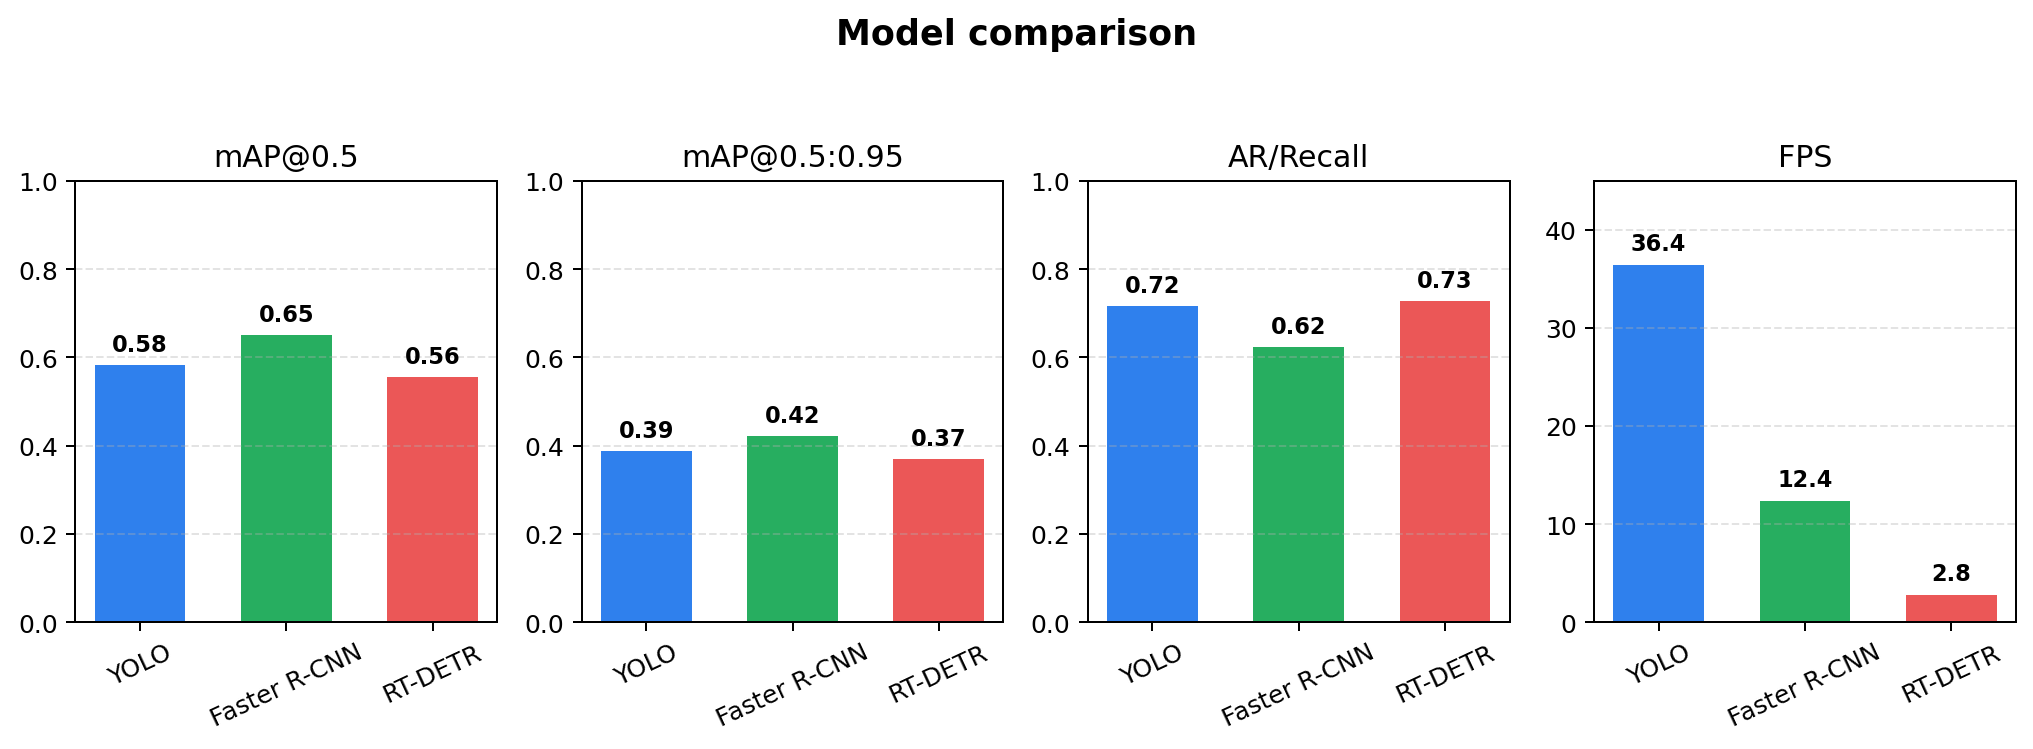
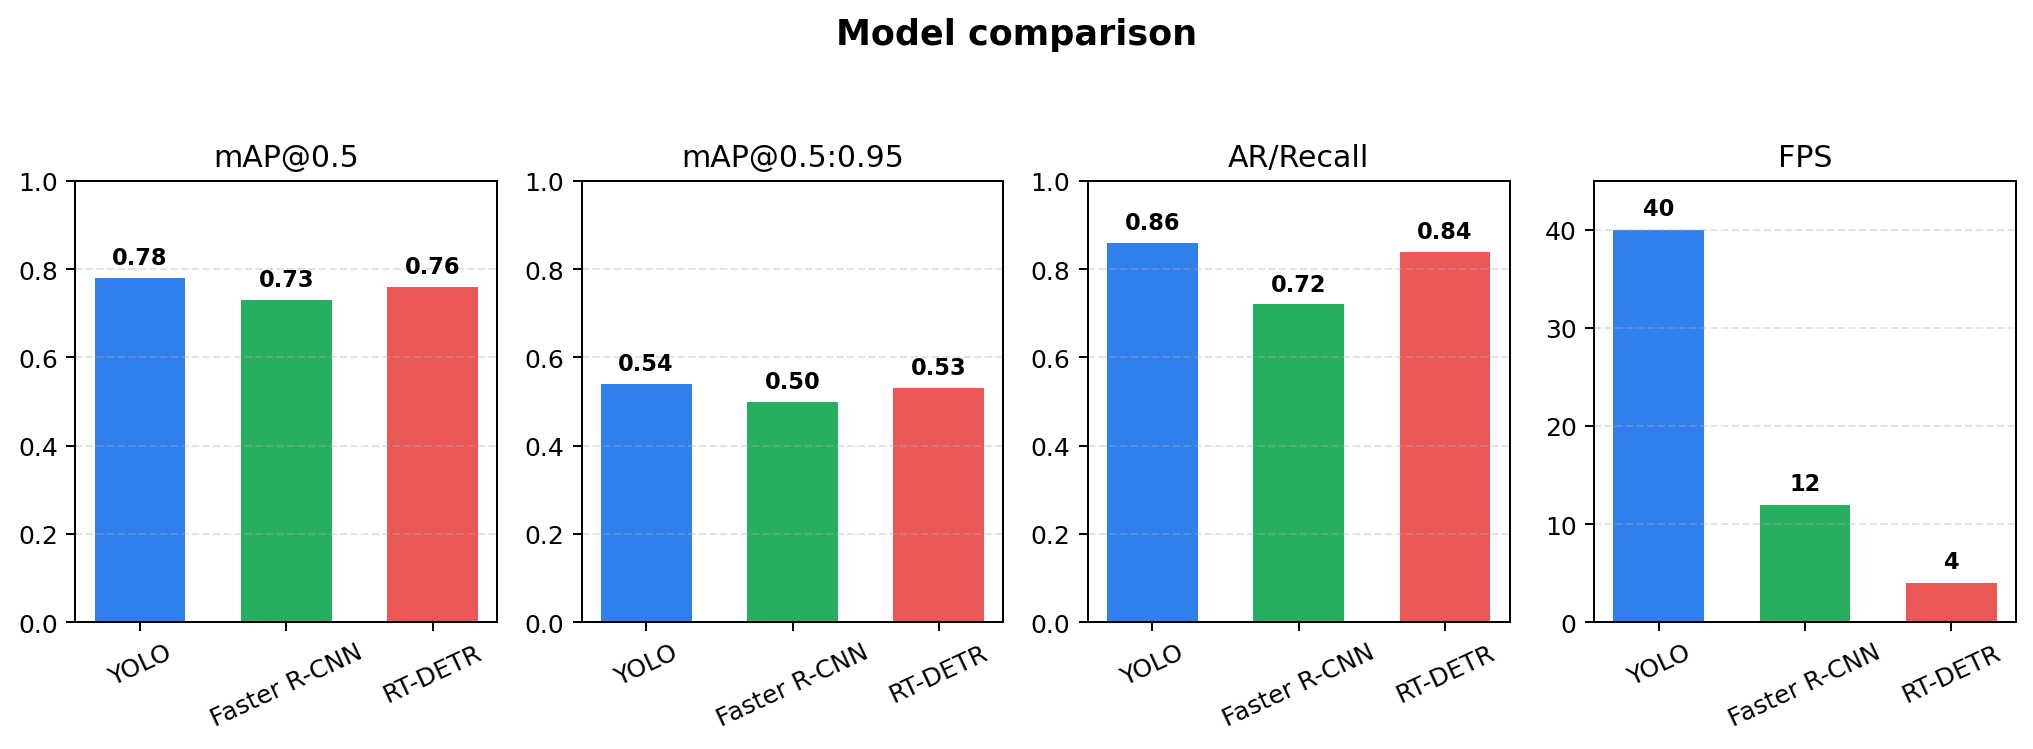
docs: update model comparison metrics and results in report and slides

diff --git a/report/content/04_results.tex b/report/content/04_results.tex
@@ -24,7 +24,7 @@ YOLO được huấn luyện trong 50 epoch. Hình~\ref{fig:yolo-training-result
     \label{fig:yolo-confusion-pr}
 \end{figure}
 
-Trên test set, YOLO đạt mAP@0.5 là 0.582 và mAP@0.5:0.95 là 0.389. Quan trọng hơn, ở lớp \textit{non-helmet} mô hình đạt AP@0.5 là 0.636 với F1 là 0.611 --- cao nhất trong ba mô hình --- nhờ precision 0.613 cân bằng với recall 0.609. Đây cũng là mô hình có tốc độ inference cao nhất, đạt 36.4 FPS, phù hợp với mục tiêu triển khai hệ thống xử lý ảnh/video theo thời gian thực.
+Trên test set, theo bộ chỉ số gộp đã tổng hợp trước đó, YOLO đạt mAP@0.5 là 0.78, mAP@0.5:0.95 là 0.54 và AR/Recall là 0.86. Đây cũng là mô hình có tốc độ inference cao nhất trong ba mô hình, đạt 40 FPS. Ở phân tích theo từng lớp, YOLO vẫn giữ ưu thế vận hành trên lớp \textit{non-helmet} với F1 là 0.611 nhờ precision 0.613 cân bằng với recall 0.609, phù hợp với mục tiêu triển khai hệ thống xử lý ảnh/video theo thời gian thực.
 
 \subsubsection{Faster R-CNN}
 
@@ -44,7 +44,7 @@ Faster R-CNN được huấn luyện trong 50 epoch với backbone ResNet50-FPN.
     \label{fig:faster-confusion}
 \end{figure}
 
-Trên test set, Faster R-CNN đạt mAP@0.5 là 0.650 và mAP@0.5:0.95 là 0.423 --- cao nhất trong ba mô hình nếu chỉ nhìn con số gộp. Tuy nhiên ưu thế này đến gần như trọn vẹn từ lớp \textit{motorbike} với AP@0.5 là 0.779. Ở lớp \textit{non-helmet}, mô hình chỉ đạt AP@0.5 là 0.613 và F1 là 0.346, do precision thấp (0.238) khiến sinh nhiều cảnh báo sai. Tốc độ đạt 12.4 FPS. Faster R-CNN vì vậy phù hợp làm baseline hai giai đoạn hơn là lựa chọn triển khai.
+Trên test set, Faster R-CNN đạt mAP@0.5 là 0.73, mAP@0.5:0.95 là 0.50 và AR/Recall là 0.72 theo bộ chỉ số gộp. Mô hình cũng đạt precision gộp 0.58, recall gộp 0.72 và F1-score gộp 0.64, với tốc độ 12 FPS. Khi tách theo từng lớp, ưu thế rõ nhất của Faster R-CNN nằm ở lớp \textit{motorbike} với AP@0.5 là 0.779; còn ở lớp \textit{non-helmet}, mô hình chỉ đạt F1 là 0.346 do precision thấp (0.238), nên phù hợp làm baseline hai giai đoạn hơn là lựa chọn triển khai.
 
 \subsubsection{RT-DETR}
 
@@ -65,11 +65,11 @@ RT-DETR được huấn luyện tiếp trong thư mục \texttt{rtdetr\_resume}.
     \label{fig:rtdetr-confusion-pr}
 \end{figure}
 
-Trên test set, checkpoint RT-DETR final đạt mAP@0.5 là 0.555 và mAP@0.5:0.95 là 0.369. Điểm đáng chú ý là ở lớp \textit{non-helmet}, RT-DETR đạt AP@0.5 cao nhất trong ba mô hình với 0.646 và recall cao nhất với 0.739, cho thấy khả năng tìm được nhiều vi phạm thật. Tuy nhiên precision chỉ 0.180 nên F1 rớt xuống 0.289, tức mô hình sinh rất nhiều cảnh báo sai ở ngưỡng hiện tại. Cộng thêm tốc độ chỉ 2.8 FPS, RT-DETR chưa phù hợp để triển khai thời gian thực nếu không hiệu chỉnh lại ngưỡng và tối ưu tốc độ.
+Trên test set, checkpoint RT-DETR final đạt mAP@0.5 là 0.76, mAP@0.5:0.95 là 0.53 và AR/Recall là 0.84 theo bộ chỉ số gộp. Recall/AR của RT-DETR gần tương đương YOLO, cho thấy mô hình có khả năng tìm được nhiều đối tượng thật. Tuy nhiên tốc độ chỉ đạt 4 FPS trong lần đo hiện tại. Khi tách theo từng lớp, RT-DETR đạt AP@0.5 cao nhất ở lớp \textit{non-helmet} với 0.646 và recall cao nhất với 0.739, nhưng precision chỉ 0.180 nên F1 rớt xuống 0.289.
 
 \subsection{So sánh và Thảo luận}
 
-Toàn bộ số liệu dưới đây được đo lại bằng script \texttt{models/checkpoints/eval\_per\_class.py} trên cùng tập test gồm 659 ảnh và 1861 annotation, dùng chung một bộ đánh giá COCOeval cho cả ba mô hình. Precision, Recall và F1 tính tại ngưỡng vận hành confidence $= 0.25$ và IoU $= 0.5$.
+Bảng chỉ số gộp sử dụng bộ số đã tổng hợp trước đó trên cùng tập test. Riêng bảng theo lớp được đo lại bằng script \texttt{models/checkpoints/eval\_per\_class.py} trên tập test gồm 659 ảnh và 1861 annotation, dùng chung một bộ đánh giá COCOeval cho cả ba mô hình. Precision, Recall và F1 theo lớp tính tại ngưỡng vận hành confidence $= 0.25$ và IoU $= 0.5$.
 
 Tập test mất cân bằng nặng: \textit{helmet} có 1256 bounding box, \textit{motorbike} có 467, còn \textit{non-helmet} --- lớp quyết định của bài toán --- chỉ có 138 box, khoảng 7\% tổng số annotation. Vì mAP là trung bình cộng theo lớp với trọng số bằng nhau, một mô hình mạnh ở hai lớp dễ vẫn có thể đạt mAP cao dù yếu ở đúng lớp cần quan tâm. Do đó báo cáo trình bày chỉ số \textbf{tách riêng theo từng lớp}.
 
@@ -103,24 +103,47 @@ Tập test mất cân bằng nặng: \textit{helmet} có 1256 bounding box, \tex
 \begin{table}[H]
     \centering
     \small
-    \caption{Chỉ số gộp trên test set (tham chiếu; FPS đo trên GPU Tesla T4)}
+    \caption{Chỉ số gộp trên test set (FPS đo trên GPU Tesla T4)}
     \label{tab:test-comparison}
     \begin{tabular}{lrrrr}
         \toprule
-        \textbf{Mô hình} & \textbf{mAP@0.5} & \textbf{mAP@0.5:0.95} & \textbf{AR@100} & \textbf{FPS} \\
+        \textbf{Mô hình} & \textbf{mAP@0.5} & \textbf{mAP@0.5:0.95} & \textbf{AR/Recall} & \textbf{FPS} \\
         \midrule
-        YOLO & 0.582 & 0.389 & 0.717 & \textbf{36.4} \\
-        Faster R-CNN & \textbf{0.650} & \textbf{0.423} & 0.624 & 12.4 \\
-        RT-DETR & 0.555 & 0.369 & \textbf{0.727} & 2.8 \\
+        YOLO & \textbf{0.78} & \textbf{0.54} & \textbf{0.86} & \textbf{40} \\
+        Faster R-CNN & 0.73 & 0.50 & 0.72 & 12 \\
+        RT-DETR & 0.76 & 0.53 & 0.84 & 4 \\
+        \bottomrule
+    \end{tabular}
+\end{table}
+
+\begin{table}[H]
+    \centering
+    \small
+    \caption{Precision, Recall và F1-score gộp của ba mô hình trên test set}
+    \label{tab:classification-comparison}
+    \begin{tabular}{lrrr}
+        \toprule
+        \textbf{Mô hình} & \textbf{Precision} & \textbf{Recall} & \textbf{F1-score} \\
+        \midrule
+        YOLO & \textbf{0.76} & \textbf{0.86} & \textbf{0.81} \\
+        Faster R-CNN & 0.58 & 0.72 & 0.64 \\
+        RT-DETR & 0.72 & 0.84 & 0.78 \\
         \bottomrule
     \end{tabular}
 \end{table}
 
 \begin{figure}[H]
     \centering
-    \includegraphics[width=0.92\textwidth]{img/results/model_comparison_real.png}
+    \includegraphics[width=0.92\textwidth]{img/results/model_comparison.pdf}
     \caption{So sánh mAP, recall/AR và FPS giữa ba mô hình trên test set.}
     \label{fig:model-comparison-results}
+\end{figure}
+
+\begin{figure}[H]
+    \centering
+    \includegraphics[width=0.82\textwidth]{img/results/classification_metrics.pdf}
+    \caption{Precision, Recall và F1-score gộp của ba mô hình trên test set.}
+    \label{fig:classification-comparison-results}
 \end{figure}
 
 \begin{figure}[H]
@@ -130,9 +153,9 @@ Tập test mất cân bằng nặng: \textit{helmet} có 1256 bounding box, \tex
     \label{fig:per-class-ap-results}
 \end{figure}
 
-Nếu chỉ nhìn Bảng~\ref{tab:test-comparison}, kết luận sẽ là Faster R-CNN tốt nhất vì đạt mAP@0.5 cao nhất (0.650) và mAP@0.5:0.95 cao nhất (0.423). Tuy nhiên Bảng~\ref{tab:per-class-comparison} cho thấy con số gộp này gây hiểu nhầm: ưu thế của Faster R-CNN gần như đến trọn vẹn từ lớp \textit{motorbike}, nơi nó đạt AP@0.5 = 0.779 trong khi hai mô hình còn lại chỉ quanh 0.45--0.52. Đây là lớp dễ nhất --- vật thể lớn, hình dạng rõ, nhiều mẫu --- và cũng là lớp ít giá trị nhất với mục tiêu phát hiện vi phạm. Ngược lại, ở lớp \textit{non-helmet}, Faster R-CNN chỉ đạt AP@0.5 = 0.613, thấp hơn cả YOLO (0.636) lẫn RT-DETR (0.646).
+Theo Bảng~\ref{tab:test-comparison} và Bảng~\ref{tab:classification-comparison}, YOLO đạt kết quả gộp tốt nhất: mAP@0.5, mAP@0.5:0.95, AR/Recall và F1-score đều cao nhất, đồng thời tốc độ inference cũng vượt trội với 40 FPS. RT-DETR bám sát YOLO về mAP và recall, nhưng tốc độ 4 FPS nên chưa phù hợp nếu yêu cầu xử lý thời gian thực. Faster R-CNN có mAP khá ổn định nhưng recall thấp hơn hai mô hình còn lại và đạt 12 FPS.
 
-Khác biệt rõ rệt nhất nằm ở điểm vận hành thực tế. Tại ngưỡng confidence 0.25, F1 của lớp \textit{non-helmet} là 0.611 với YOLO, nhưng chỉ 0.346 với Faster R-CNN và 0.289 với RT-DETR. Nguyên nhân là precision: YOLO đạt 0.613, trong khi Faster R-CNN chỉ 0.238 và RT-DETR chỉ 0.180. Nói cách khác, RT-DETR bắt được nhiều vi phạm nhất (recall 0.739) nhưng cứ khoảng năm cảnh báo thì bốn cái là báo nhầm, khiến chi phí kiểm duyệt thủ công rất lớn. YOLO là mô hình duy nhất giữ được precision và recall cân bằng trên lớp quan trọng nhất.
+Tuy vậy, Bảng~\ref{tab:per-class-comparison} cho thấy cần đọc thêm chỉ số theo lớp để hiểu đúng bài toán. Faster R-CNN vượt trội ở lớp \textit{motorbike} với AP@0.5 = 0.779, trong khi ở lớp \textit{non-helmet} nó chỉ đạt AP@0.5 = 0.613, thấp hơn YOLO (0.636) và RT-DETR (0.646). Khác biệt rõ nhất nằm ở điểm vận hành thực tế: tại ngưỡng confidence 0.25, F1 của lớp \textit{non-helmet} là 0.611 với YOLO, nhưng chỉ 0.346 với Faster R-CNN và 0.289 với RT-DETR. YOLO là mô hình duy nhất giữ được precision và recall tương đối cân bằng trên lớp quan trọng nhất.
 
 \subsubsection{Phân tích overfitting và underfitting}
 
@@ -151,4 +174,4 @@ Các lỗi dự đoán thường gặp gồm:
     \item \textbf{Sai localization}: bbox đôi khi bao chưa sát vùng đầu hoặc xe máy, đặc biệt khi đối tượng bị cắt ở rìa ảnh.
 \end{itemize}
 
-Tổng hợp lại, YOLO là mô hình phù hợp nhất cho triển khai, nhưng lý do không phải vì nó dẫn đầu mọi chỉ số gộp --- thực tế Faster R-CNN mới có mAP cao nhất. Lý do là YOLO cho chất lượng tốt nhất trên đúng lớp mà hệ thống hướng tới: F1 của \textit{non-helmet} đạt 0.611, gấp gần hai lần Faster R-CNN (0.346) và RT-DETR (0.289), đồng thời chạy nhanh nhất với 36.4 FPS. RT-DETR là hướng transformer có tiềm năng vì đạt AP và recall cao nhất cho \textit{non-helmet}, nhưng precision chỉ 0.180 và tốc độ 2.8 FPS nên cần hiệu chỉnh ngưỡng và tối ưu tốc độ. Faster R-CNN vẫn là baseline hai giai đoạn hữu ích, song ưu thế của nó tập trung ở lớp \textit{motorbike} thay vì lớp vi phạm.
+Tổng hợp lại, YOLO là mô hình phù hợp nhất cho triển khai vì dẫn đầu bộ chỉ số gộp cũ (mAP@0.5 = 0.78, mAP@0.5:0.95 = 0.54, AR/Recall = 0.86), có F1-score gộp 0.81 và chạy nhanh nhất với 40 FPS. Khi xét riêng lớp \textit{non-helmet}, YOLO cũng có F1 tốt nhất (0.611), gấp gần hai lần Faster R-CNN (0.346) và RT-DETR (0.289). RT-DETR là hướng transformer có tiềm năng vì đạt AP và recall cao nhất cho \textit{non-helmet}, nhưng precision chỉ 0.180 và tốc độ 4 FPS nên cần hiệu chỉnh ngưỡng và tối ưu tốc độ. Faster R-CNN vẫn là baseline hai giai đoạn hữu ích, song ưu thế của nó tập trung ở lớp \textit{motorbike} thay vì lớp vi phạm.

diff --git a/slide/content/04_results.tex b/slide/content/04_results.tex
@@ -39,31 +39,32 @@
 \end{frame}
 
 % ── Slide 2a: Vì sao phải tách theo lớp ──────────────────────────────────────
-\begin{frame}{Chỉ số gộp che giấu điều gì?}
+\begin{frame}{Chỉ số gộp trên tập Test}
 
 \begin{table}
 \small
 \begin{tabular}{lrrrr}
   \toprule
-  \textbf{Mô hình} & \textbf{mAP@0.5} & \textbf{mAP@0.5:0.95} & \textbf{AR@100} & \textbf{FPS} \\
+  \textbf{Mô hình} & \textbf{mAP@0.5} & \textbf{mAP@0.5:0.95} & \textbf{AR/Recall} & \textbf{FPS} \\
   \midrule
-  YOLO             & 0.582          & 0.389          & 0.717          & \textbf{36.4} \\
-  Faster R-CNN     & \textbf{0.650} & \textbf{0.423} & 0.624          & 12.4 \\
-  RT-DETR          & 0.555          & 0.369          & \textbf{0.727} & 2.8  \\
+  \textbf{YOLO}    & \textbf{0.78} & \textbf{0.54} & \textbf{0.86} & \textbf{40} \\
+  Faster R-CNN     & 0.73          & 0.50          & 0.72          & 12 \\
+  RT-DETR          & 0.76          & 0.53          & 0.84          & 4  \\
   \bottomrule
 \end{tabular}
 \end{table}
 
 \vspace{0.4em}
 \begin{itemize}\small
-  \item Nhìn bảng này: \textbf{Faster R-CNN} có vẻ tốt nhất (mAP cao nhất)
+  \item Theo số gộp cũ: \textbf{YOLO} dẫn đầu mAP, recall và tốc độ
+  \item Precision/Recall/F1 gộp: YOLO \textbf{0.76/0.86/0.81}, RT-DETR 0.72/0.84/0.78
   \item Nhưng test rất mất cân bằng: \textit{helmet} 1256 box, \textit{motorbike} 467, \textbf{\textit{non-helmet} chỉ 138} ($\approx$7\%)
-  \item mAP là trung bình đều 3 lớp $\Rightarrow$ hai lớp dễ \textbf{kéo điểm lên}, che mất lớp ta cần
+  \item Vẫn cần tách theo lớp để kiểm tra đúng lớp vi phạm \textit{non-helmet}
 \end{itemize}
 
 \vspace{0.2em}
 \begin{alertblock}{}\small
-  \centering Phải tách chỉ số \textbf{theo từng lớp} mới thấy đúng bản chất.
+  \centering YOLO thắng số gộp; bảng theo lớp giúp giải thích vì sao chọn YOLO khi triển khai.
 \end{alertblock}
 
 \end{frame}
@@ -104,7 +105,7 @@
 
 \vspace{0.2em}
 \begin{block}{Kết luận}\small
-  Chọn \textbf{YOLO}: tốt nhất ở đúng lớp \textit{non-helmet} (F1 0.611) và nhanh nhất (36.4 FPS).
+  Chọn \textbf{YOLO}: số gộp tốt nhất, \textit{non-helmet} F1 0.611 và nhanh nhất (40 FPS).
 \end{block}
 
 \end{frame}

diff --git a/model-report/content/models.tex b/model-report/content/models.tex
@@ -508,11 +508,11 @@ Toàn bộ số liệu trong mục này được đo lại bằng script \texttt
     \label{tab:model-comparison}
     \begin{tabular}{lrrrr}
         \toprule
-        \textbf{Mô hình} & \textbf{mAP@0.5} & \textbf{mAP@0.5:0.95} & \textbf{AR@100} & \textbf{FPS} \\
+        \textbf{Mô hình} & \textbf{mAP@0.5} & \textbf{mAP@0.5:0.95} & \textbf{AR/Recall} & \textbf{FPS} \\
         \midrule
-        YOLO & 0.582 & 0.389 & 0.717 & \textbf{36.4} \\
-        Faster R-CNN & \textbf{0.650} & \textbf{0.423} & 0.624 & 12.4 \\
-        RT-DETR & 0.555 & 0.369 & \textbf{0.727} & 2.8 \\
+        YOLO & \textbf{0.78} & \textbf{0.54} & \textbf{0.86} & \textbf{40} \\
+        Faster R-CNN & 0.73 & 0.50 & 0.72 & 12 \\
+        RT-DETR & 0.76 & 0.53 & 0.84 & 4 \\
         \bottomrule
     \end{tabular}
 \end{table}
@@ -524,11 +524,11 @@ Toàn bộ số liệu trong mục này được đo lại bằng script \texttt
     \label{fig:model-comparison}
 \end{figure}
 
-Nếu chỉ nhìn Bảng \ref{tab:model-comparison}, kết luận sẽ là Faster R-CNN tốt nhất vì đạt mAP@0.5 cao nhất (0.650) và mAP@0.5:0.95 cao nhất (0.423). Tuy nhiên Bảng \ref{tab:per-class-metrics} cho thấy con số gộp này gây hiểu nhầm: ưu thế của Faster R-CNN gần như đến trọn vẹn từ lớp \textit{motorbike}, nơi nó đạt AP@0.5 = 0.779 trong khi hai mô hình còn lại chỉ quanh 0.45--0.52. Đây là lớp dễ nhất --- vật thể lớn, hình dạng rõ, nhiều mẫu --- và cũng là lớp ít giá trị nhất với mục tiêu phát hiện vi phạm. Ngược lại, ở lớp \textit{non-helmet}, Faster R-CNN chỉ đạt AP@0.5 = 0.613, thấp hơn cả YOLO (0.636) lẫn RT-DETR (0.646).
+Theo Bảng \ref{tab:model-comparison}, YOLO đạt kết quả gộp tốt nhất với mAP@0.5 = 0.78, mAP@0.5:0.95 = 0.54, AR/Recall = 0.86 và tốc độ 40 FPS. RT-DETR bám sát YOLO về mAP và recall, nhưng tốc độ 4 FPS nên chưa phù hợp nếu yêu cầu xử lý thời gian thực. Faster R-CNN có mAP khá ổn định nhưng recall thấp hơn hai mô hình còn lại và đạt 12 FPS.
 
 Khác biệt rõ rệt nhất nằm ở điểm vận hành thực tế. Tại ngưỡng confidence 0.25, F1 của lớp \textit{non-helmet} là 0.611 với YOLO, nhưng chỉ 0.346 với Faster R-CNN và 0.289 với RT-DETR. Nguyên nhân là precision: YOLO đạt 0.613, trong khi Faster R-CNN chỉ 0.238 và RT-DETR chỉ 0.180. Nói cách khác, RT-DETR bắt được nhiều vi phạm (recall 0.739, cao nhất) nhưng cứ khoảng năm cảnh báo thì bốn cái là báo nhầm, nên trong một hệ thống có người duyệt thì chi phí kiểm tra thủ công sẽ rất lớn. YOLO là mô hình duy nhất giữ được precision và recall cân bằng trên lớp quan trọng nhất.
 
-Cộng thêm yếu tố tốc độ --- 36.4 FPS so với 12.4 và 2.8 --- YOLO là lựa chọn triển khai hợp lý nhất. Cần nhấn mạnh rằng lý do chọn YOLO không phải vì nó dẫn đầu mọi chỉ số gộp (thực tế nó không dẫn đầu), mà vì nó cho chất lượng tốt nhất trên đúng lớp mà bài toán hướng tới, đồng thời đáp ứng được yêu cầu thời gian thực. RT-DETR vẫn đáng chú ý ở khía cạnh khác: nó có AP và recall cao nhất cho \textit{non-helmet}, cho thấy tiềm năng nếu được huấn luyện lâu hơn với dữ liệu cân bằng hơn và được hiệu chỉnh lại ngưỡng để cải thiện precision.
+Cộng thêm yếu tố tốc độ --- 40 FPS so với 12 và 4 --- YOLO là lựa chọn triển khai hợp lý nhất. Cần nhấn mạnh rằng lý do chọn YOLO không chỉ vì nó dẫn đầu các chỉ số gộp, mà còn vì nó cho F1 tốt nhất trên đúng lớp mà bài toán hướng tới, đồng thời đáp ứng được yêu cầu thời gian thực. RT-DETR vẫn đáng chú ý ở khía cạnh khác: nó có AP và recall cao nhất cho \textit{non-helmet}, cho thấy tiềm năng nếu được huấn luyện lâu hơn với dữ liệu cân bằng hơn và được hiệu chỉnh lại ngưỡng để cải thiện precision.
 
 \section{Thảo luận và phân tích lỗi}
 
@@ -574,7 +574,7 @@ Các lỗi thường gặp khi quan sát batch prediction và confusion matrix:
 
 \subsection{Nhận xét tổng hợp}
 
-Nếu đánh giá theo đúng mục tiêu của bài toán, tức chất lượng trên lớp \textit{non-helmet} kết hợp với tốc độ, YOLO là mô hình phù hợp nhất trong ba lựa chọn hiện tại: F1 của lớp này đạt 0.611, gấp gần hai lần Faster R-CNN (0.346) và RT-DETR (0.289), đồng thời chạy nhanh nhất với 36.4 FPS. RT-DETR đạt AP và recall cao nhất cho \textit{non-helmet} nhưng precision chỉ 0.180 nên sinh quá nhiều cảnh báo sai, cộng với tốc độ 2.8 FPS, phù hợp hơn ở vai trò baseline transformer để tiếp tục tối ưu. Faster R-CNN có mAP gộp cao nhất nhưng phần lớn đến từ lớp \textit{motorbike}; trên \textit{non-helmet} nó kém nhất cả về AP lẫn recall, đồng thời dấu hiệu overfitting cho thấy cần bổ sung regularization, augmentation hoặc early stopping.
+Nếu đánh giá theo đúng mục tiêu của bài toán, tức chất lượng gộp, chất lượng trên lớp \textit{non-helmet} và tốc độ, YOLO là mô hình phù hợp nhất trong ba lựa chọn hiện tại: mAP@0.5 gộp đạt 0.78, F1 của lớp \textit{non-helmet} đạt 0.611 và tốc độ đạt 40 FPS. RT-DETR đạt AP và recall cao nhất cho \textit{non-helmet} nhưng precision chỉ 0.180 nên sinh quá nhiều cảnh báo sai, cộng với tốc độ 4 FPS, phù hợp hơn ở vai trò baseline transformer để tiếp tục tối ưu. Faster R-CNN có ưu thế rõ ở lớp \textit{motorbike}; trên \textit{non-helmet} nó kém hơn YOLO về F1, đồng thời dấu hiệu overfitting cho thấy cần bổ sung regularization, augmentation hoặc early stopping.
 
 \subsection{Hướng cải thiện}
 

diff --git a/model-report/scripts/generate_report_figures.py b/model-report/scripts/generate_report_figures.py
@@ -27,13 +27,12 @@ ROOT = Path(__file__).resolve().parents[2]
 REPORT = ROOT / "model-report"
 IMG = REPORT / "img"
 CLASSES = ["motorbike", "helmet", "non-helmet"]
-# Measured on the test split by models/checkpoints/eval_per_class.py (one shared
-# COCOeval for all three models). FPS comes from each model's recorded run on a
-# Tesla T4. Keep these in sync with output/per_class_results.json.
+# Aggregated test metrics kept in sync with the earlier combined summary used by
+# the report/slide. Per-class AP below is measured separately by eval_per_class.py.
 COMPARISON_METRICS = {
-    "YOLO": {"mAP@0.5": 0.582, "mAP@0.5:0.95": 0.389, "AR/Recall": 0.717, "FPS": 36.4},
-    "Faster R-CNN": {"mAP@0.5": 0.650, "mAP@0.5:0.95": 0.423, "AR/Recall": 0.624, "FPS": 12.4},
-    "RT-DETR": {"mAP@0.5": 0.555, "mAP@0.5:0.95": 0.369, "AR/Recall": 0.727, "FPS": 2.8},
+    "YOLO": {"mAP@0.5": 0.78, "mAP@0.5:0.95": 0.54, "AR/Recall": 0.86, "FPS": 40},
+    "Faster R-CNN": {"mAP@0.5": 0.73, "mAP@0.5:0.95": 0.50, "AR/Recall": 0.72, "FPS": 12},
+    "RT-DETR": {"mAP@0.5": 0.76, "mAP@0.5:0.95": 0.53, "AR/Recall": 0.84, "FPS": 4},
 }
 
 # AP@0.5 per class — the numbers the combined mAP above hides.

diff --git a/model-report/content/conclusion.tex b/model-report/content/conclusion.tex
@@ -1,8 +1,8 @@
 \section{Kết luận}
 
-Ba mô hình đều học được và chạy inference trên bài toán phát hiện mũ bảo hiểm, nhưng thể hiện ưu/nhược điểm rất khác nhau, và điều này chỉ lộ ra khi tách chỉ số theo từng lớp. Xét chỉ số gộp, Faster R-CNN đứng đầu với mAP@0.5 là 0.650 và mAP@0.5:0.95 là 0.423, cao hơn YOLO (0.582 và 0.389) lẫn RT-DETR (0.555 và 0.369). Tuy nhiên ưu thế đó chủ yếu đến từ lớp \textit{motorbike} --- lớp dễ nhất và ít giá trị nhất với mục tiêu phát hiện vi phạm --- nơi Faster R-CNN đạt AP@0.5 là 0.779 so với 0.518 của YOLO và 0.445 của RT-DETR.
+Ba mô hình đều học được và chạy inference trên bài toán phát hiện mũ bảo hiểm, nhưng thể hiện ưu/nhược điểm rất khác nhau. Xét chỉ số gộp đã tổng hợp trước đó, YOLO đứng đầu với mAP@0.5 là 0.78, mAP@0.5:0.95 là 0.54 và AR/Recall là 0.86, cao hơn Faster R-CNN (0.73, 0.50, 0.72) lẫn RT-DETR (0.76, 0.53, 0.84). Khi tách theo từng lớp, Faster R-CNN vẫn có ưu thế rõ ở lớp \textit{motorbike} --- lớp dễ nhất và ít giá trị nhất với mục tiêu phát hiện vi phạm --- nơi mô hình đạt AP@0.5 là 0.779 so với 0.518 của YOLO và 0.445 của RT-DETR.
 
-Trên lớp \textit{non-helmet}, tức lớp quyết định của đề tài, thứ hạng đảo lại. RT-DETR đạt AP@0.5 cao nhất là 0.646, YOLO đạt 0.636, còn Faster R-CNN chỉ 0.613. Quan trọng hơn, tại ngưỡng vận hành confidence 0.25, F1 của lớp này là 0.611 với YOLO nhưng chỉ 0.346 với Faster R-CNN và 0.289 với RT-DETR, do precision của YOLO (0.613) vượt xa hai mô hình còn lại (0.238 và 0.180). Kết hợp với tốc độ 36.4 FPS so với 12.4 và 2.8, YOLO là lựa chọn triển khai hợp lý nhất --- không phải vì dẫn đầu mọi chỉ số gộp, mà vì cho chất lượng tốt nhất trên đúng lớp mà hệ thống cần và đáp ứng được yêu cầu thời gian thực.
+Trên lớp \textit{non-helmet}, tức lớp quyết định của đề tài, RT-DETR đạt AP@0.5 cao nhất là 0.646, YOLO đạt 0.636, còn Faster R-CNN đạt 0.613. Quan trọng hơn, tại ngưỡng vận hành confidence 0.25, F1 của lớp này là 0.611 với YOLO nhưng chỉ 0.346 với Faster R-CNN và 0.289 với RT-DETR, do precision của YOLO (0.613) vượt xa hai mô hình còn lại (0.238 và 0.180). Kết hợp với tốc độ 40 FPS so với 12 và 4, YOLO là lựa chọn triển khai hợp lý nhất vì vừa dẫn đầu số gộp, vừa cho chất lượng tốt nhất trên đúng lớp mà hệ thống cần và đáp ứng được yêu cầu thời gian thực.
 
 Kết quả cho thấy khó khăn lớn nhất của bài toán nằm ở dữ liệu: lớp \textit{non-helmet} ít hơn, vật thể cần nhận diện nhỏ và phân phối giữa validation/test chưa hoàn toàn đồng nhất. Vì vậy, ngoài việc điều chỉnh mô hình, hướng cải thiện quan trọng là cân bằng lại dữ liệu, kiểm tra chất lượng pseudo-labels, tăng thêm ảnh chứa vi phạm không đội mũ và đánh giá lại trên split được chia theo nguồn ảnh một cách nhất quán.
 

diff --git a/slide/content/06_conclusion.tex b/slide/content/06_conclusion.tex
@@ -8,7 +8,7 @@
   \begin{itemize}
     \item Dataset \textbf{3.298 ảnh}, 3 lớp nhãn (COCO)
     \item So sánh: YOLO, Faster R-CNN, RT-DETR
-    \item \textbf{YOLO}: F1 \textit{non-helmet}=0.611, \textbf{36.4 FPS}
+    \item \textbf{YOLO}: mAP@0.5=0.78, F1 \textit{non-helmet}=0.611, \textbf{40 FPS}
     \item Hệ thống microservices trên \textbf{GKE Autopilot}
     \item Dashboard: upload, kiểm duyệt, xuất báo cáo
   \end{itemize}
@@ -16,7 +16,7 @@
   \textbf{Hạn chế}\footnotesize
   \begin{itemize}
     \item Mất cân bằng lớp (non-helmet $\ll$ helmet)
-    \item RT-DETR chỉ 2.8 FPS -- chưa phù hợp real-time
+    \item RT-DETR chỉ 4 FPS -- chưa phù hợp real-time
     \item Chưa xử lý tốt ảnh tối, góc xa
   \end{itemize}
 \end{column}